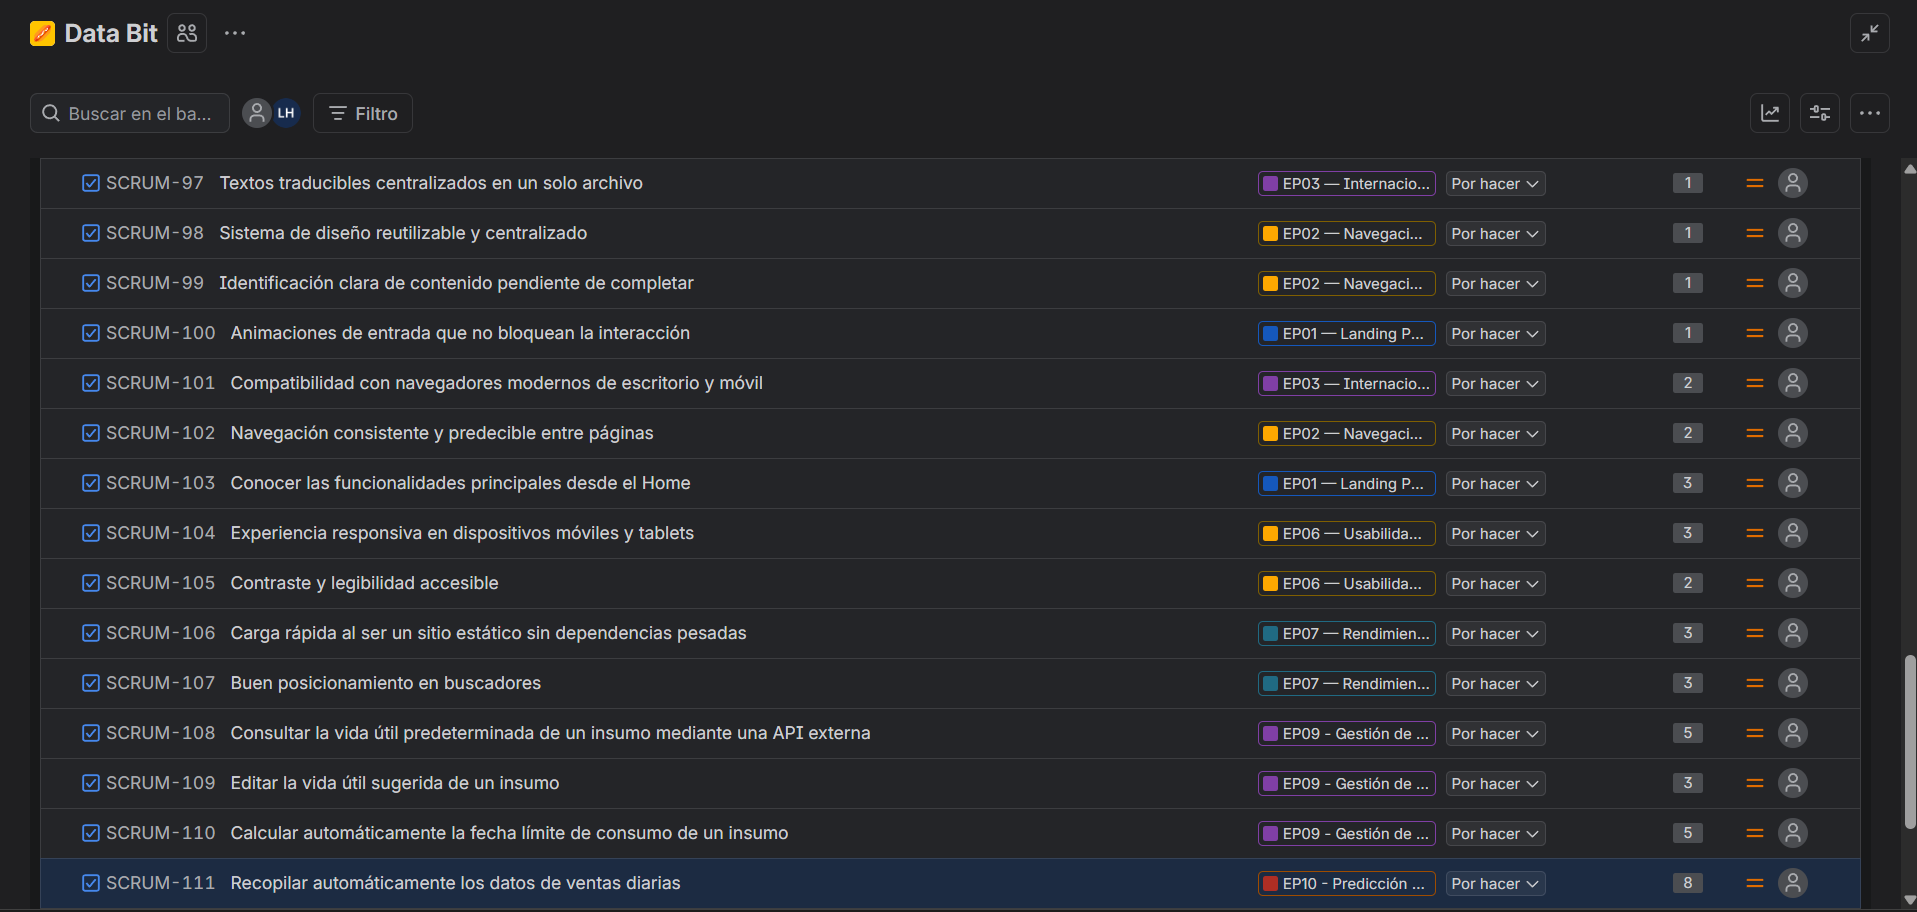
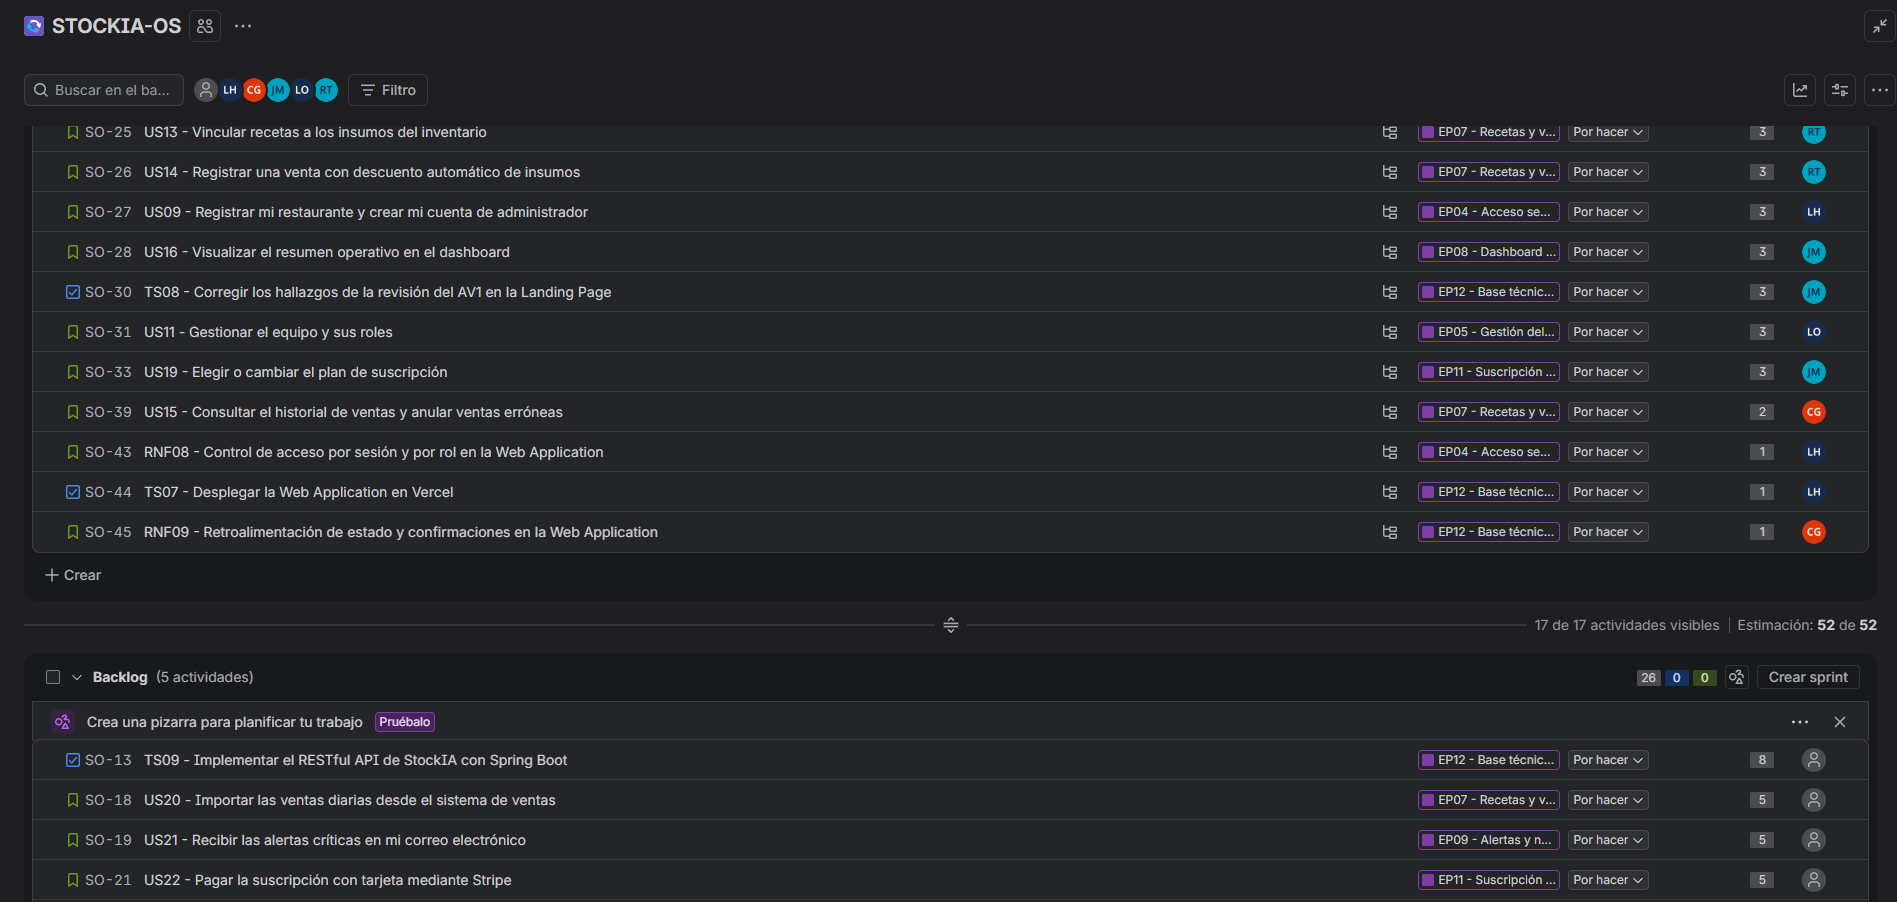
docs(chapter-03): updated backlog evidence

diff --git a/README.md b/README.md
@@ -2016,7 +2016,7 @@ En la siguiente sección se presenta el Impact Mapping elaborado a partir del us
 </p>
 
 >Acceso a artefacto Jira para el desarrollo de Backlog
-<https://laplaceho-22.atlassian.net/jira/software/projects/SCRUM/boards/1?filter=&groupBy=none&atlOrigin=eyJpIjoiOGVhOTM0YjRkNzZkNGEzZWExMmY0ZmQ4MTU1NTcyYmQiLCJwIjoiaiJ9>
+<https://laplaceho-22.atlassian.net/jira/software/projects/SO/list?jql=project+%3D+SO+AND+type+%3D+Story+ORDER+BY+cf%5B10019%5D+ASC&atlOrigin=eyJpIjoiZTg4MDU2YjQwYjZlNDJlMjg3NTU1MDk1Y2Q5MjYzNGEiLCJwIjoiaiJ9>
 
 
 # Capítulo IV: Product Design
